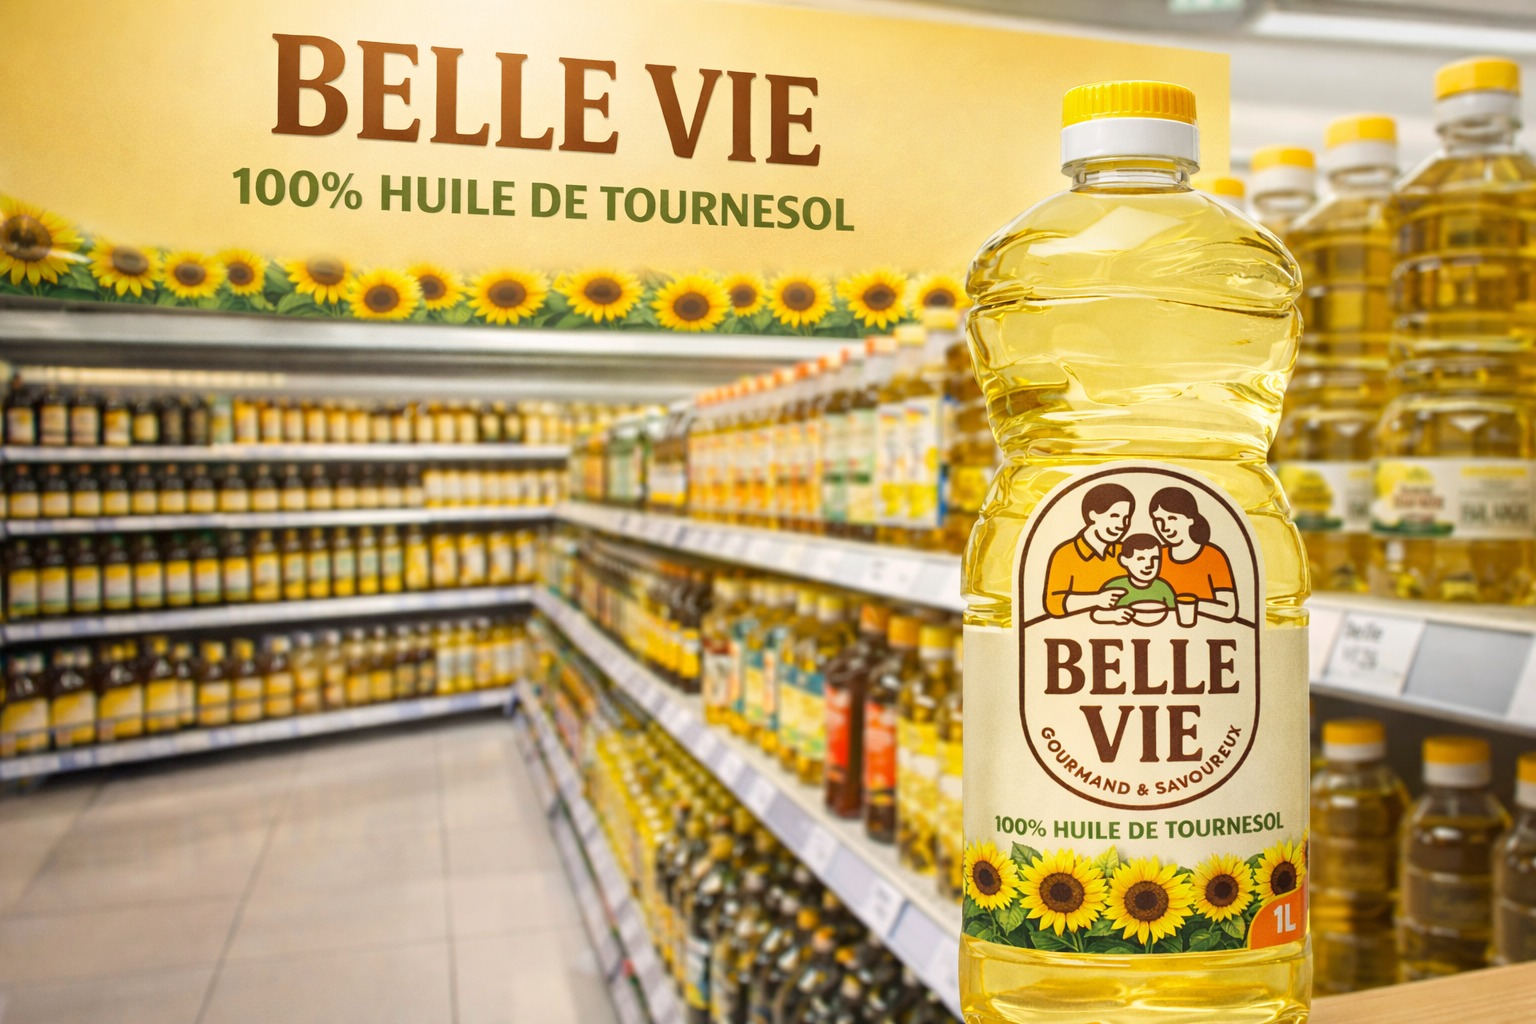
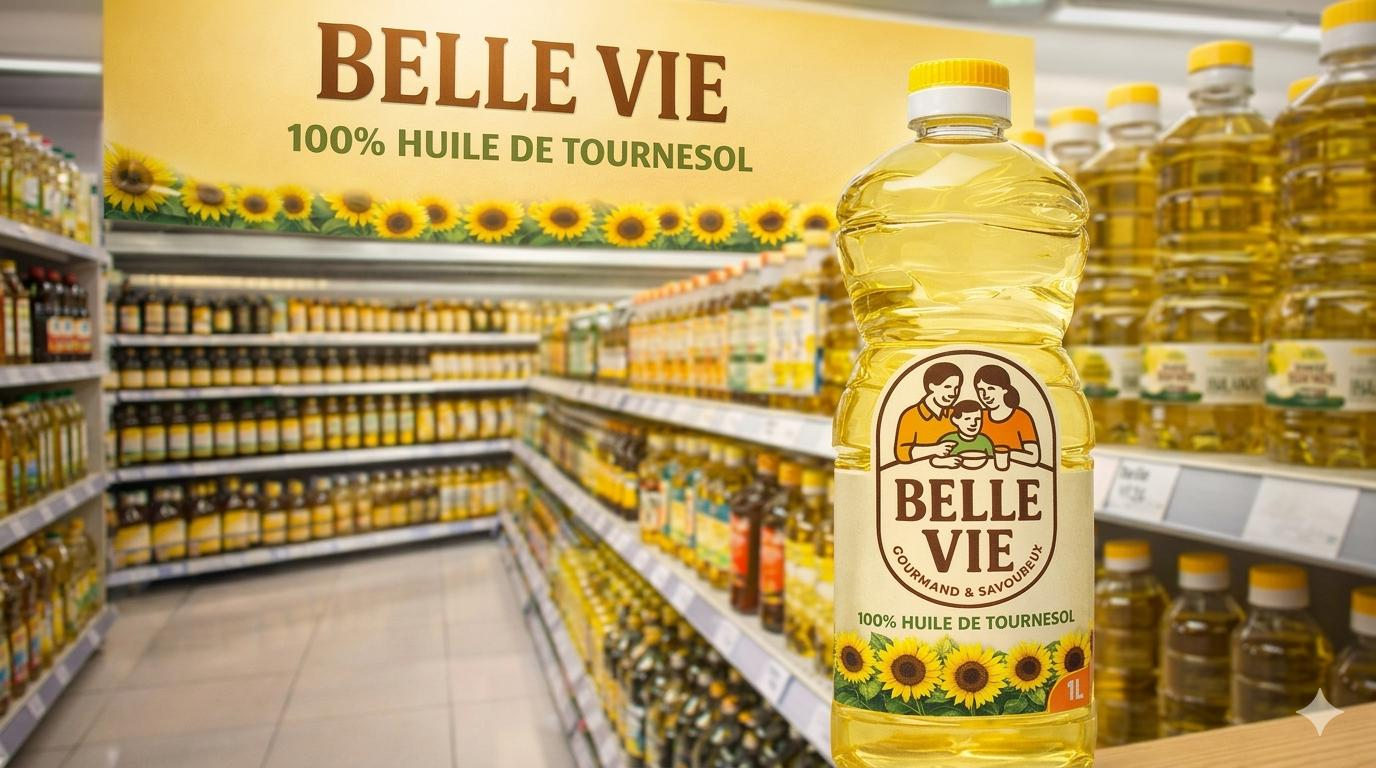
push

diff --git a/src/components/home/HeroSlider.tsx b/src/components/home/HeroSlider.tsx
@@ -14,6 +14,7 @@ const SLIDE_IMAGES = [
   "/images/hero/slide-4.jpeg",
   "/images/hero/slide-5.jpeg",
   "/images/hero/slide-6.jpeg",
+  "/images/hero/slide-7.jpeg",
 ];
 
 const SLIDE_DURATION = 5000;
